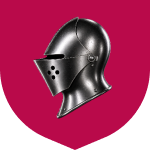
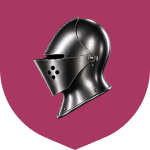
Split welcome badge asset by form factor
The mobile UI merge recolored the shared welcome_badge.png shield from
#A83861 to #B90A4A, changing the desktop welcome and unlock screens too.
Split the asset: welcome_badge.png is restored to the main (#A83861)
artwork for the desktop screens, and the merge's #B90A4A artwork moves to
welcome_badge_mobile.png, which the mobile unlock screen now references.
The helmet artwork is identical between the two; only the shield fill
differs. assets/illustrations/ is registered as a directory, so no
pubspec change is needed.

diff --git a/lib/src/features/onboarding/mobile/mobile_unlock_screen.dart b/lib/src/features/onboarding/mobile/mobile_unlock_screen.dart
@@ -27,7 +27,9 @@ const mobileBiometricSignInBackgroundAsset =
 /// screen's precache, so the warmed [ImageCache] entries match the providers
 /// painted behind the Face ID sheet (same key -> cache hit, no blank frame).
 const _authBackgroundImage = AssetImage(mobileBiometricSignInBackgroundAsset);
-const _welcomeBadgeImage = AssetImage('assets/illustrations/welcome_badge.png');
+const _welcomeBadgeImage = AssetImage(
+  'assets/illustrations/welcome_badge_mobile.png',
+);
 
 /// Mobile unlock — Figma `Sign In Passcode` (4885:23041): "Welcome Back",
 /// crimson-filling dots, round numpad keys, a bottom biometric retry action,